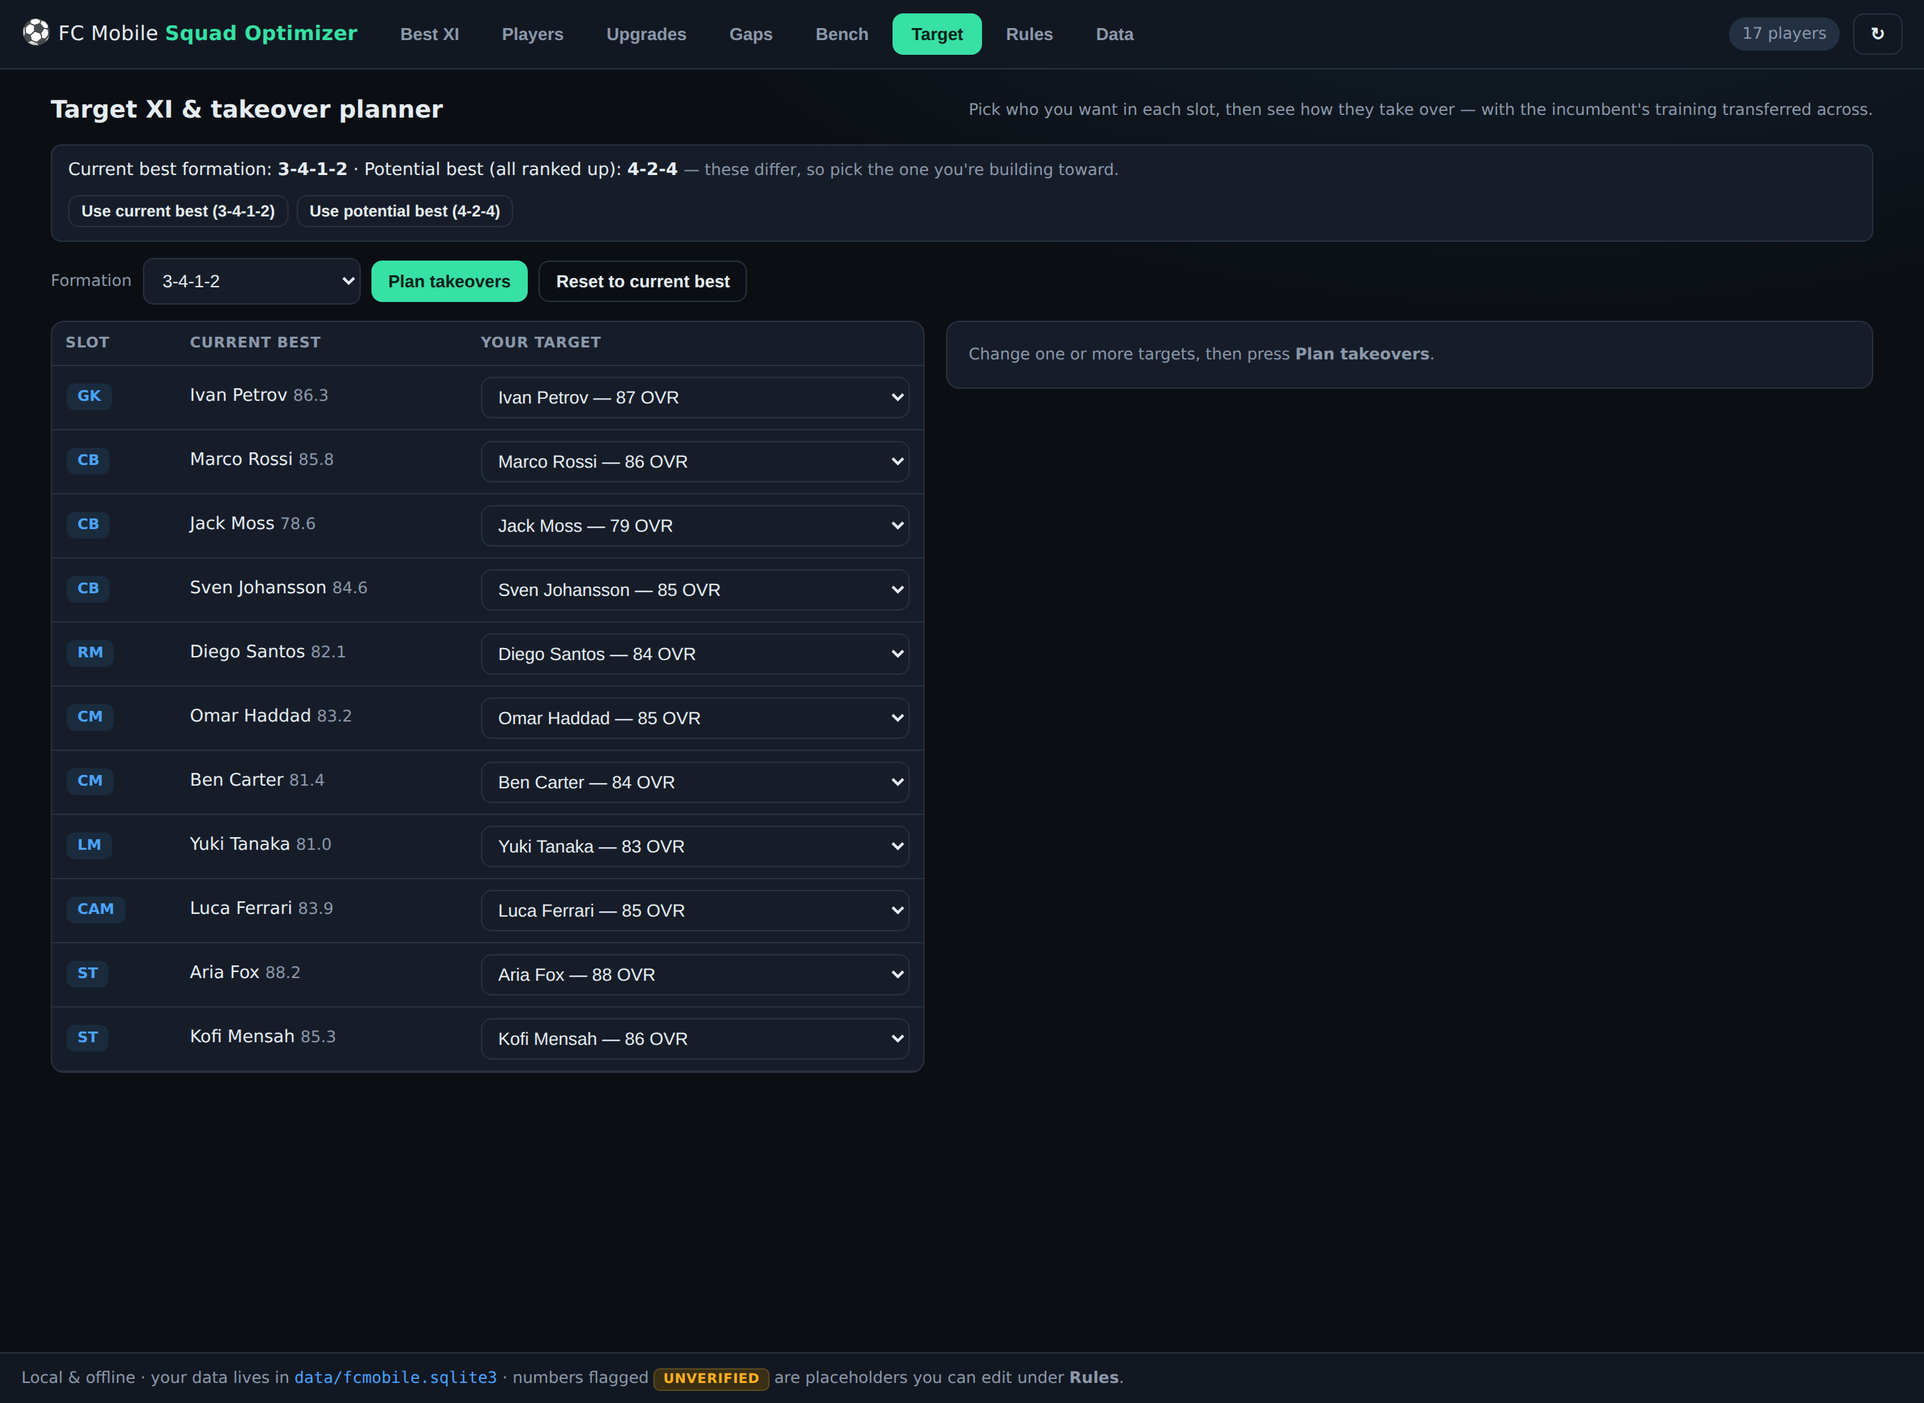
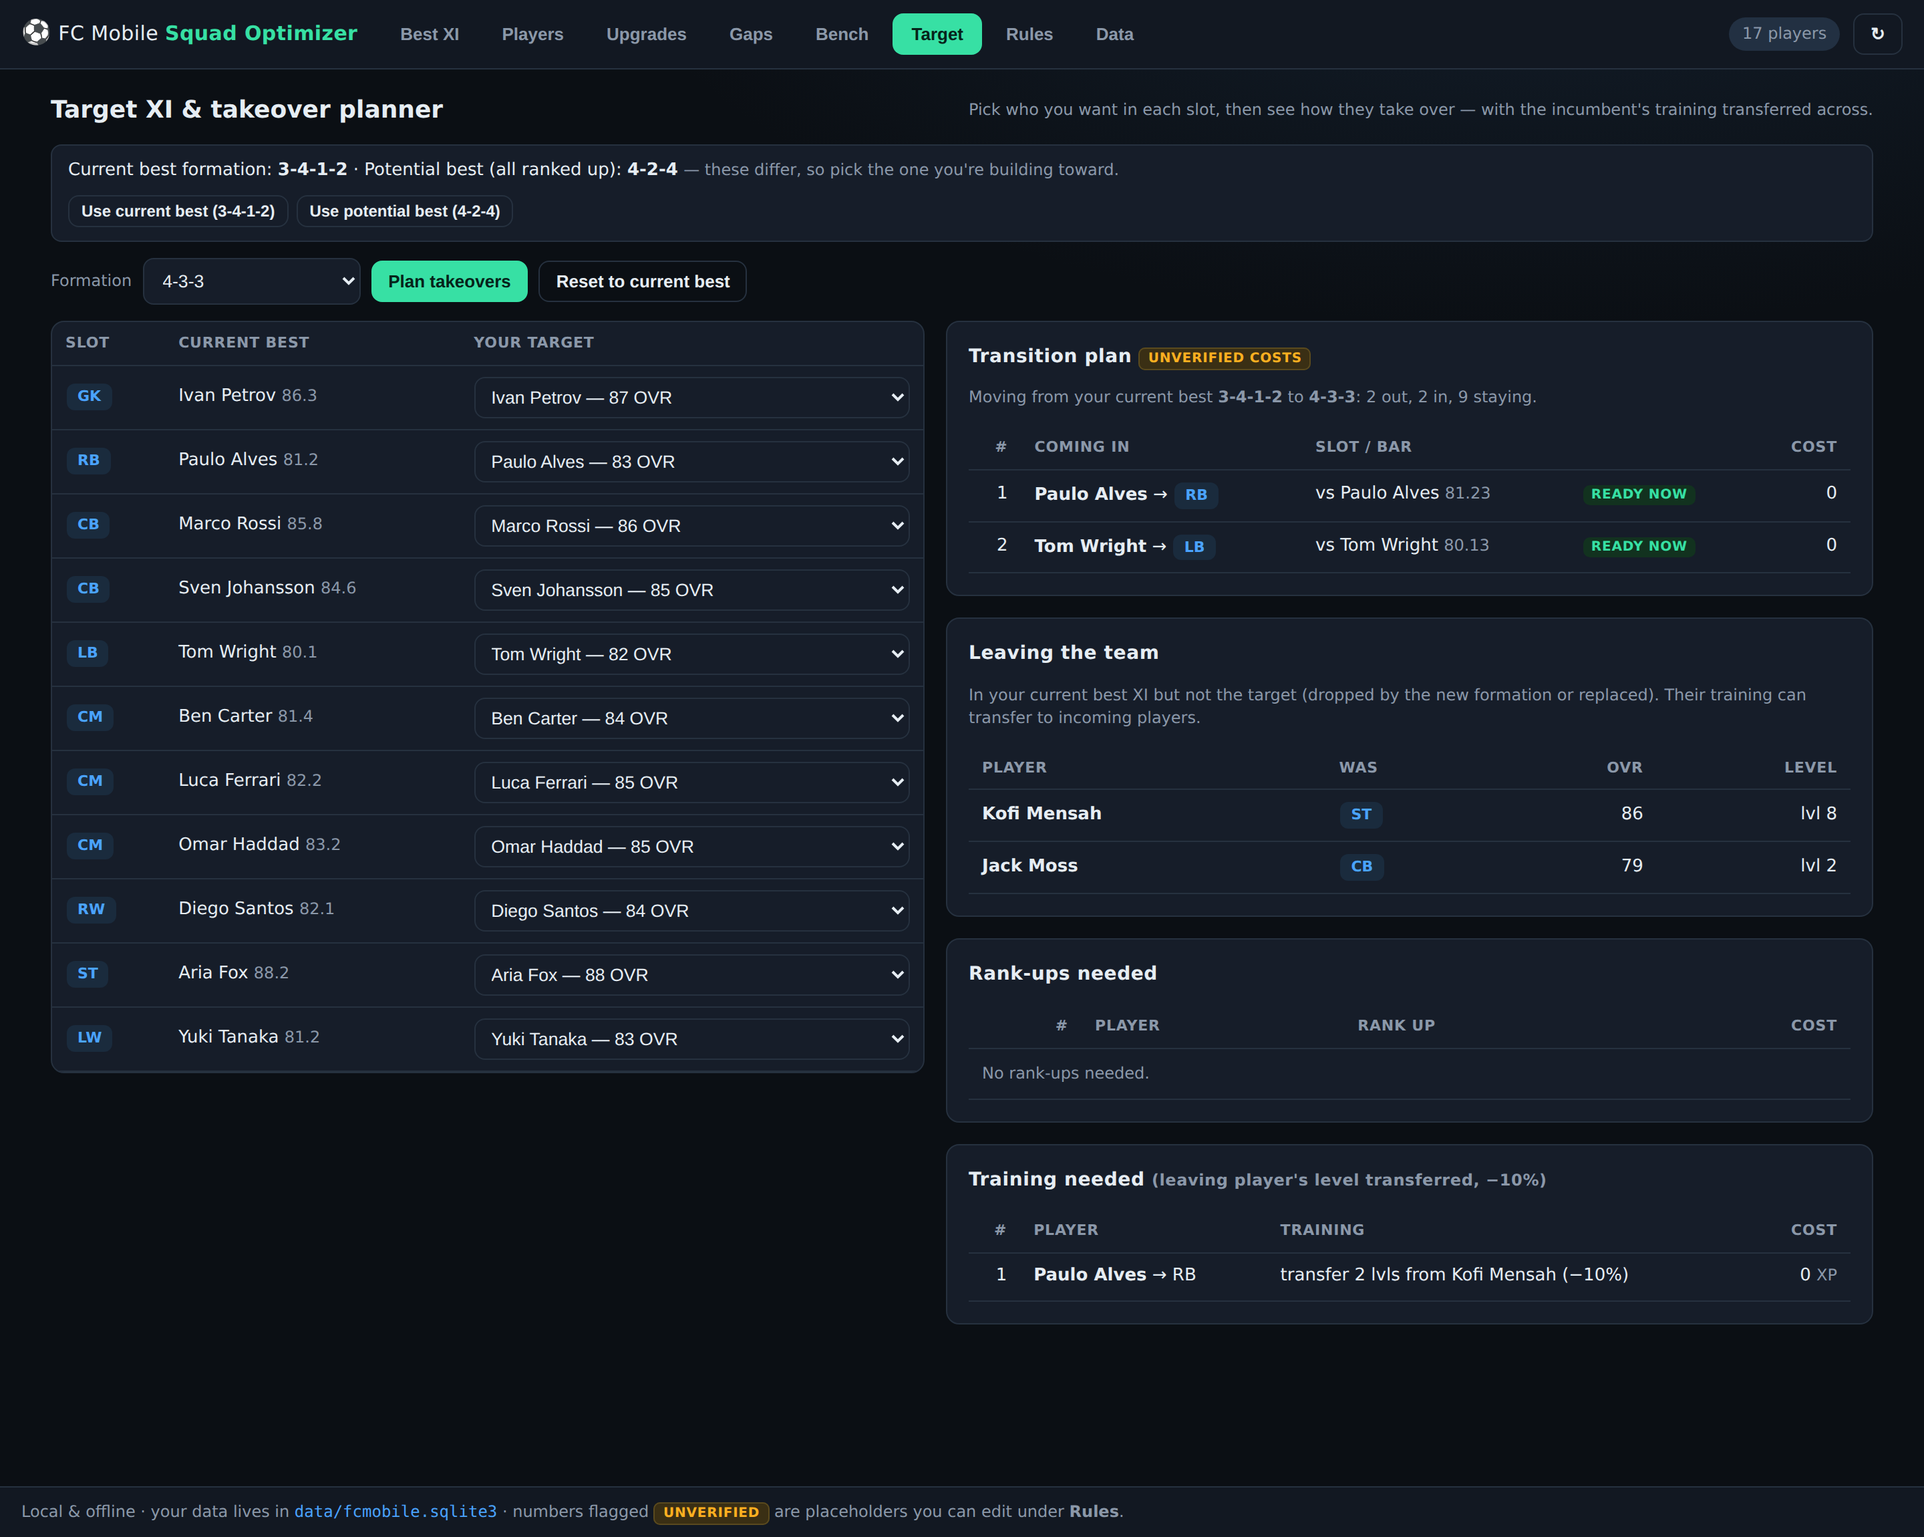
Target planner: make it transition-aware across formation changes
Previously the planner worked within one formation, so a current starter with
no slot in the target formation (e.g. a winger when moving to a no-winger
shape) silently vanished instead of being flagged. Now it plans the transition
from your ACTUAL current best XI (any formation) to the target:

- Computes current best XI across all formations and diffs it against the
  target XI (formation + per-slot overrides).
- "Coming in": target players not in the current best XI, each with a takeover
  plan; "ready now" when no upgrade is needed (walked in via the formation
  change).
- "Leaving the team": current best XI players not in the target - including
  those dropped by the formation change. Their training is used as the transfer
  source for incoming players (minus the fee).
- Plan auto-runs on formation change; Rank-ups and Training sections unchanged.

compute_takeover() now takes a separate transfer_source so a dropped player can
fund an incoming one even across positions. 22 tests pass.

Claude-Session: https://claude.ai/code/session_0186D7V2GWLdLZnzqt7dgDp5

diff --git a/frontend/js/app.js b/frontend/js/app.js
@@ -768,30 +768,42 @@ async function renderTarget(app) {
     sel.style.borderColor = val === inc ? "var(--line)" : "var(--accent)";
   }));
   $("#tgt-plan").onclick = () => loadTakeoverPlan();
+  loadTakeoverPlan();   // auto-show the transition for the current formation choice
 }
 
 async function loadTakeoverPlan() {
   const box = $("#tgt-results");
   if (!box) return;
-  const targets = State._targets || {};
-  if (!Object.keys(targets).length) {
-    box.innerHTML = `<div class="panel hint">No changes yet — pick different players in the slots on the left, then plan.</div>`;
-    return;
-  }
   box.innerHTML = "<div class='panel hint'>Planning…</div>";
   let d;
-  try { d = await API.takeoverPlan(State._targetFormation, targets); }
+  try { d = await API.takeoverPlan(State._targetFormation, State._targets || {}); }
   catch (e) { box.innerHTML = `<div class="panel">Error: ${esc(e.message)}</div>`; return; }
   if (!d.enough_players) { box.innerHTML = `<div class="panel">Need at least 11 players.</div>`; return; }
   const t = d.takeovers || [];
-  if (!t.length) { box.innerHTML = `<div class="panel hint">Nothing to plan — your targets already hold those slots.</div>`; return; }
+  const leaving = d.leaving || [];
   const feePct = Math.round((d.transfer_fee_pct || 0.1) * 100);
+
+  if (!t.length && !leaving.length) {
+    box.innerHTML = `<div class="panel hint">This target matches your current best XI (${esc(d.current_best_formation || "")}) — nothing to change. Switch formation or pick different players to plan a transition.</div>`;
+    return;
+  }
+
+  const transHint = d.current_best_formation && d.current_best_formation !== d.formation
+    ? `<p class="hint">Moving from your current best <b>${esc(d.current_best_formation)}</b> to <b>${esc(d.formation)}</b>: ${leaving.length} out, ${t.length} in, ${d.staying_count} staying.</p>`
+    : `<p class="hint">${t.length} player(s) to bring in, ${d.staying_count} staying.</p>`;
+
+  const leavingRows = leaving.map((l) => `<tr>
+    <td><b>${esc(l.name)}</b></td>
+    <td><span class="chip pos">${esc(l.current_position || "—")}</span></td>
+    <td class="num">${l.ovr}</td>
+    <td class="num">lvl ${l.training_level}</td>
+  </tr>`).join("");
 
   const summary = t.map((x) => `<tr>
     <td class="num">${x.order}</td>
     <td><b>${esc(x.target_name)}</b> → <span class="chip pos">${esc(x.position)}</span></td>
-    <td>${esc(x.incumbent_name)} <span class="hint">${x.incumbent_score}</span></td>
-    <td>${x.achievable ? '<span class="badge ok">reachable</span>' : '<span class="badge warn">can\'t overtake</span>'}</td>
+    <td>${x.incumbent_name === "(empty)" ? '<span class="hint">open slot</span>' : `vs ${esc(x.incumbent_name)} <span class="hint">${x.incumbent_score}</span>`}</td>
+    <td>${x.total_cost_units === 0 ? '<span class="badge ok">ready now</span>' : x.achievable ? '<span class="badge ok">reachable</span>' : '<span class="badge warn">can\'t reach</span>'}</td>
     <td class="num">${x.total_cost_units.toLocaleString()}</td>
   </tr>`).join("");
 
@@ -804,7 +816,7 @@ async function loadTakeoverPlan() {
 
   const tr = t.filter((x) => x.transfer_levels || x.training_added).map((x) => {
     const parts = [];
-    if (x.transfer_levels) parts.push(`transfer ${x.transfer_levels} lvl${x.transfer_levels === 1 ? "" : "s"} from ${esc(x.incumbent_name)} (−${feePct}%)`);
+    if (x.transfer_levels) parts.push(`transfer ${x.transfer_levels} lvl${x.transfer_levels === 1 ? "" : "s"}${x.transfer_from_name ? ` from ${esc(x.transfer_from_name)}` : ""} (−${feePct}%)`);
     if (x.training_added) parts.push(`+${x.training_added} to level ${x.final_level}`);
     return `<tr>
       <td class="num">${x.order}</td>
@@ -815,14 +827,19 @@ async function loadTakeoverPlan() {
   }).join("");
 
   box.innerHTML = `
-    <div class="panel"><h3>Takeover order ${d.costs_unverified ? '<span class="badge warn">unverified costs</span>' : ""}</h3>
-      <p class="hint">Quickest (cheapest) first. "Can't overtake" = even fully maxed the target doesn't reach the incumbent's score.</p>
-      <table><thead><tr><th class="num">#</th><th>Target</th><th>Takes over</th><th></th><th class="num">Cost</th></tr></thead><tbody>${summary}</tbody></table>
+    <div class="panel"><h3>Transition plan ${d.costs_unverified ? '<span class="badge warn">unverified costs</span>' : ""}</h3>
+      ${transHint}
+      <table><thead><tr><th class="num">#</th><th>Coming in</th><th>Slot / bar</th><th></th><th class="num">Cost</th></tr></thead>
+      <tbody>${summary || '<tr><td colspan="5" class="hint" style="padding:10px">No one new to bring in.</td></tr>'}</tbody></table>
     </div>
+    <div class="panel"><h3>Leaving the team</h3>
+      <p class="hint">In your current best XI but not the target (dropped by the new formation or replaced). Their training can transfer to incoming players.</p>
+      <table><thead><tr><th>Player</th><th>Was</th><th class="num">OVR</th><th class="num">Level</th></tr></thead>
+      <tbody>${leavingRows || '<tr><td colspan="4" class="hint" style="padding:10px">No one leaves.</td></tr>'}</tbody></table></div>
     <div class="panel"><h3>Rank-ups needed</h3>
       <table><thead><tr><th class="num">#</th><th>Player</th><th>Rank up</th><th class="num">Cost</th></tr></thead>
       <tbody>${rk || '<tr><td colspan="4" class="hint" style="padding:10px">No rank-ups needed.</td></tr>'}</tbody></table></div>
-    <div class="panel"><h3>Training needed <span class="hint">(incumbent's level transferred, −${feePct}%)</span></h3>
+    <div class="panel"><h3>Training needed <span class="hint">(leaving player's level transferred, −${feePct}%)</span></h3>
       <table><thead><tr><th class="num">#</th><th>Player</th><th>Training</th><th class="num">Cost</th></tr></thead>
       <tbody>${tr || '<tr><td colspan="4" class="hint" style="padding:10px">No training needed.</td></tr>'}</tbody></table></div>`;
 }

diff --git a/backend/targets.py b/backend/targets.py
@@ -27,7 +27,8 @@ def _norm_cost(xp: float, rank_items: float) -> float:
     return xp * norm.get("training_unit", 1.0) + rank_items * norm.get("rankup_unit", 1.0)
 
 
-def compute_takeover(target: PlayerState, incumbent: PlayerState | None, position: str) -> dict:
+def compute_takeover(target: PlayerState, incumbent: PlayerState | None, position: str,
+                     transfer_source: PlayerState | None = None) -> dict:
     costs = rules_mod.load("costs")
     training_costs = costs["training"]["per_level"]
     rankup_costs = costs["rankup"]["per_rank"]
@@ -45,15 +46,20 @@ def compute_takeover(target: PlayerState, incumbent: PlayerState | None, positio
     t = target.copy()
     target_score_before = slot_score(t, position)
     inc_score = slot_score(incumbent, position) if incumbent is not None else 0.0
-    inc_level = incumbent.training_level if incumbent is not None else 0
+
+    # The player whose training transfers across may differ from the "bar" incumbent when
+    # the formation changes (e.g. a winger being dropped funds an incoming striker).
+    src = transfer_source if transfer_source is not None else incumbent
+    src_level = src.training_level if src is not None else 0
+    src_name = src.name if src is not None else None
 
     rankups: list[int] = []
     training_added = 0
     xp = 0.0
     rank_items = 0.0
 
-    # 1. Training transfer from the incumbent (minus the fee).
-    transferred = int(math.floor(inc_level * (1 - fee)))
+    # 1. Training transfer from the source player (minus the fee).
+    transferred = int(math.floor(src_level * (1 - fee)))
     transfer_levels = 0
     if transferred > t.training_level:
         add = transferred - t.training_level
@@ -74,7 +80,7 @@ def compute_takeover(target: PlayerState, incumbent: PlayerState | None, positio
         guard += 1
 
     if position not in t.positions:
-        return _result(target, incumbent, position, target_score_before, inc_score, inc_level,
+        return _result(target, incumbent, position, target_score_before, inc_score, src_level, src_name,
                        transfer_levels, rankups, training_added, xp, rank_items, tt_per_level,
                        t, achievable=False, reason="cannot play this position even fully ranked up")
 
@@ -110,12 +116,12 @@ def compute_takeover(target: PlayerState, incumbent: PlayerState | None, positio
         guard += 1
 
     achievable = slot_score(t, position) >= inc_score - 1e-9
-    return _result(target, incumbent, position, target_score_before, inc_score, inc_level,
+    return _result(target, incumbent, position, target_score_before, inc_score, src_level, src_name,
                    transfer_levels, rankups, training_added, xp, rank_items, tt_per_level,
                    t, achievable=achievable, reason=None if achievable else "still short even fully maxed")
 
 
-def _result(target, incumbent, position, before, inc_score, inc_level, transfer_levels,
+def _result(target, incumbent, position, before, inc_score, src_level, src_name, transfer_levels,
             rankups, training_added, xp, rank_items, tt_per_level, final, achievable, reason) -> dict:
     return {
         "position": position,
@@ -126,7 +132,8 @@ def _result(target, incumbent, position, before, inc_score, inc_level, transfer_
         "incumbent_score": round(inc_score, 2),
         "target_score_before": round(before, 2),
         "target_score_after": round(slot_score(final, position), 2),
-        "transfer_from_level": inc_level,
+        "transfer_from_name": src_name,
+        "transfer_from_level": src_level,
         "transfer_levels": transfer_levels,
         "tt_points": transfer_levels * tt_per_level,
         "rankups": rankups,
@@ -143,12 +150,25 @@ def _result(target, incumbent, position, before, inc_score, inc_level, transfer_
 
 
 def takeover_plan(states: list[PlayerState], formation_name: str, targets: dict) -> dict:
+    """Plan the transition from your ACTUAL current best XI (whatever formation) to the
+    target XI (the chosen formation, with per-slot overrides). Surfaces who JOINS the team
+    (with the upgrades to get them in) and who LEAVES it (e.g. a winger dropped when moving
+    to a formation with no winger slot). Training from leaving players is transferred to
+    joining players (minus the fee)."""
+    from .optimizer import optimize
+
     fr = solve_named(states, formation_name)
     if fr is None:
         return {"error": f"Unknown formation: {formation_name}"}
 
     by_id = {s.id: s for s in states}
-    # Normalise target keys to ints (they may arrive as strings from JSON).
+
+    # Your actual current best XI (best across all formations).
+    current_best = optimize(states, top_n=1)[0]
+    current_ids = {a.player_id for a in current_best.slots if a.player_id is not None}
+    current_pos = {a.player_id: a.position for a in current_best.slots}
+
+    # Normalise per-slot target overrides (keys may be strings from JSON).
     tmap = {}
     for k, v in (targets or {}).items():
         try:
@@ -156,27 +176,63 @@ def takeover_plan(states: list[PlayerState], formation_name: str, targets: dict)
         except (TypeError, ValueError):
             continue
 
-    takeovers = []
+    # The target XI: each slot's chosen player (override, else the best current option for
+    # this formation).
+    target_slot_player = {}
     for slot in fr.slots:
         want = tmap.get(slot.slot_index)
-        if want is None or want == slot.player_id:
-            continue  # slot unchanged
-        target = by_id.get(want)
+        target_slot_player[slot.slot_index] = want if want is not None else slot.player_id
+    target_ids = {pid for pid in target_slot_player.values() if pid is not None}
+
+    # Who leaves the team on this transition (in current best XI, not in target XI).
+    leaving = []
+    for pid in current_ids:
+        if pid not in target_ids:
+            p = by_id.get(pid)
+            if p is not None:
+                leaving.append(p)
+    leaving.sort(key=lambda p: p.training_level, reverse=True)
+    leaving_pool = list(leaving)  # training-transfer sources to hand out
+
+    # For each slot whose target player is JOINING (not already in the current best XI),
+    # compute the takeover.
+    takeovers = []
+    for slot in fr.slots:
+        pid = target_slot_player[slot.slot_index]
+        if pid is None or pid in current_ids:
+            continue  # empty, or the target already starts in your current best XI
+        target = by_id.get(pid)
         if target is None:
             continue
         incumbent = by_id.get(slot.player_id) if slot.player_id is not None else None
-        res = compute_takeover(target, incumbent, slot.position)
+
+        # Training-transfer source: the directly-replaced incumbent if they're leaving,
+        # otherwise the highest-level leaving player still available.
+        source = None
+        if incumbent is not None and incumbent.id not in target_ids:
+            source = incumbent
+            leaving_pool[:] = [p for p in leaving_pool if p.id != incumbent.id]
+        elif leaving_pool:
+            source = leaving_pool.pop(0)
+
+        res = compute_takeover(target, incumbent, slot.position, transfer_source=source)
         res["slot_index"] = slot.slot_index
         takeovers.append(res)
 
-    # Quickest (cheapest) achievable takeovers first; unachievable last.
     takeovers.sort(key=lambda r: (not r["achievable"], r["total_cost_units"]))
     for i, t in enumerate(takeovers):
         t["order"] = i + 1
 
     return {
         "formation": formation_name,
+        "current_best_formation": current_best.formation,
         "takeovers": takeovers,
+        "leaving": [
+            {"player_id": p.id, "name": p.name, "current_position": current_pos.get(p.id),
+             "training_level": p.training_level, "ovr": p.ovr}
+            for p in leaving
+        ],
+        "staying_count": len(current_ids & target_ids),
         "costs_unverified": not rules_mod.load("costs").get("verified", False),
         "transfer_fee_pct": rules_mod.load("costs").get("training_transfer", {}).get("transfer_fee_pct", 0.1),
     }

diff --git a/README.md b/README.md
@@ -55,15 +55,21 @@ changes), so your collection stays in sync and every later recommendation reflec
 
 ![Apply an upgrade](docs/images/10-apply-modal.png)
 
-### Target XI & takeover planner — pick who you want, see how they take over
-Choose a formation and the player you want in each slot. For every slot where your target
-isn't already the best, it works out the cheapest path for them to overtake the incumbent —
-**with the incumbent's training level transferred across (minus a 10% fee)** — split into a
-**Rank-ups** section and a **Training** section, ordered by who can take over most cheaply
-(soonest). It also flags targets that **can't overtake** the incumbent even fully maxed. Your current
-best and potential-best squads can use **different formations**, so the tab shows both and
-lets you build toward either; each slot's dropdown lists **in-position players first**, with
-out-of-position options grouped separately below.
+### Target XI & takeover planner — plan the move from your current team to your target
+Choose the formation and players you're building toward. It plans the **transition from your
+actual current best XI** (which may be a **different formation**) to that target, and shows:
+
+- **Coming in** — players who join the target XI, each with the cheapest path to get there
+  (rank-ups + training), ordered by who's quickest; players already good enough show
+  **ready now**, and ones you can't get there yet show **can't reach**.
+- **Leaving the team** — players in your current best XI but not the target, including anyone
+  **dropped by a formation change** (e.g. a winger when you move to a formation with no winger
+  slot). Their **training transfers to incoming players (minus a 10% fee)**.
+- Separate **Rank-ups** and **Training** sections with the exact steps and costs.
+
+Your current best and potential-best squads can use **different formations**, so the tab shows
+both and lets you build toward either; each slot's dropdown lists **in-position players first**,
+with out-of-position options grouped separately below.
 
 ![Target takeover planner](docs/images/12-target-takeover.png)
 
